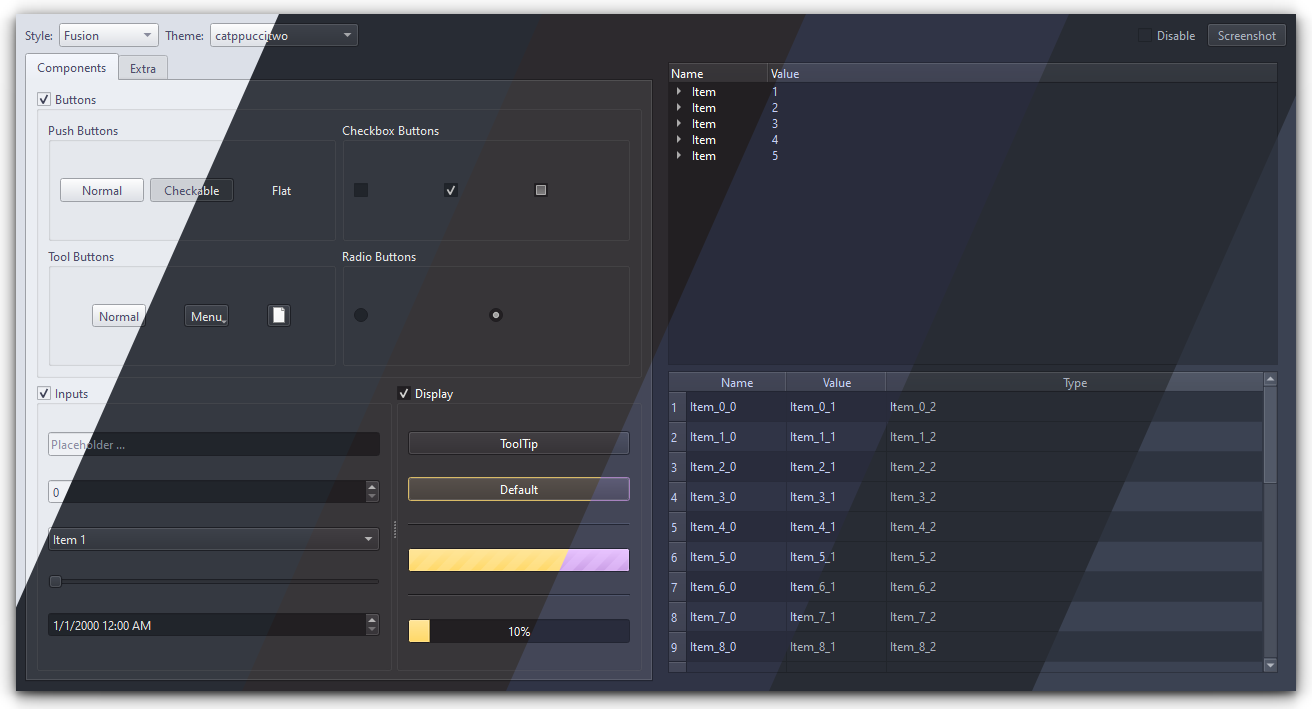
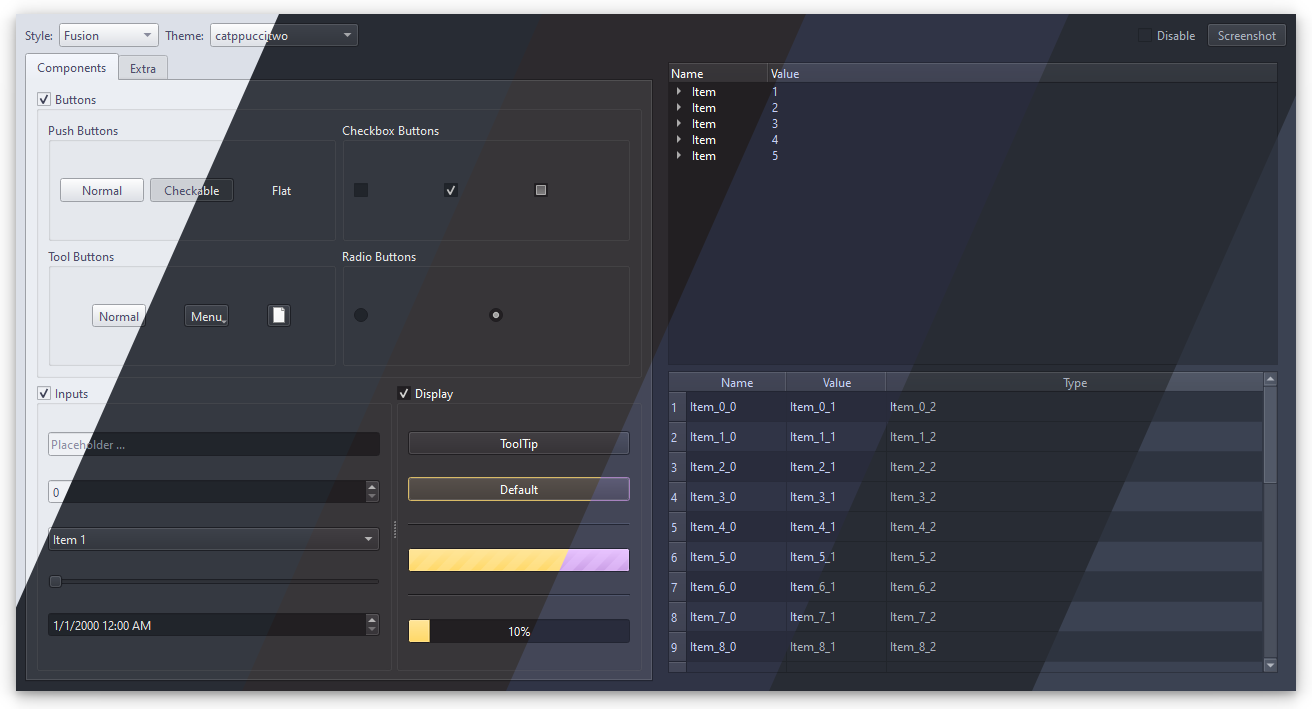
docs: reduce drop shadow opacity

Changed region(s): [[0.0, 0.031, 1.0, 0.9929]]

diff --git a/.github/create_header_image.py b/.github/create_header_image.py
@@ -85,7 +85,7 @@ def create_header_image(
     drop_shadow = QtWidgets.QGraphicsDropShadowEffect()
     drop_shadow.setOffset(shadow_offset)
     drop_shadow.setBlurRadius(shadow_radius)
-    drop_shadow.setColor(QtGui.QColorConstants.Black)
+    drop_shadow.setColor(QtGui.QColor(0, 0, 0, 128))
 
     # Masked Images
     for i, path in enumerate(paths):
